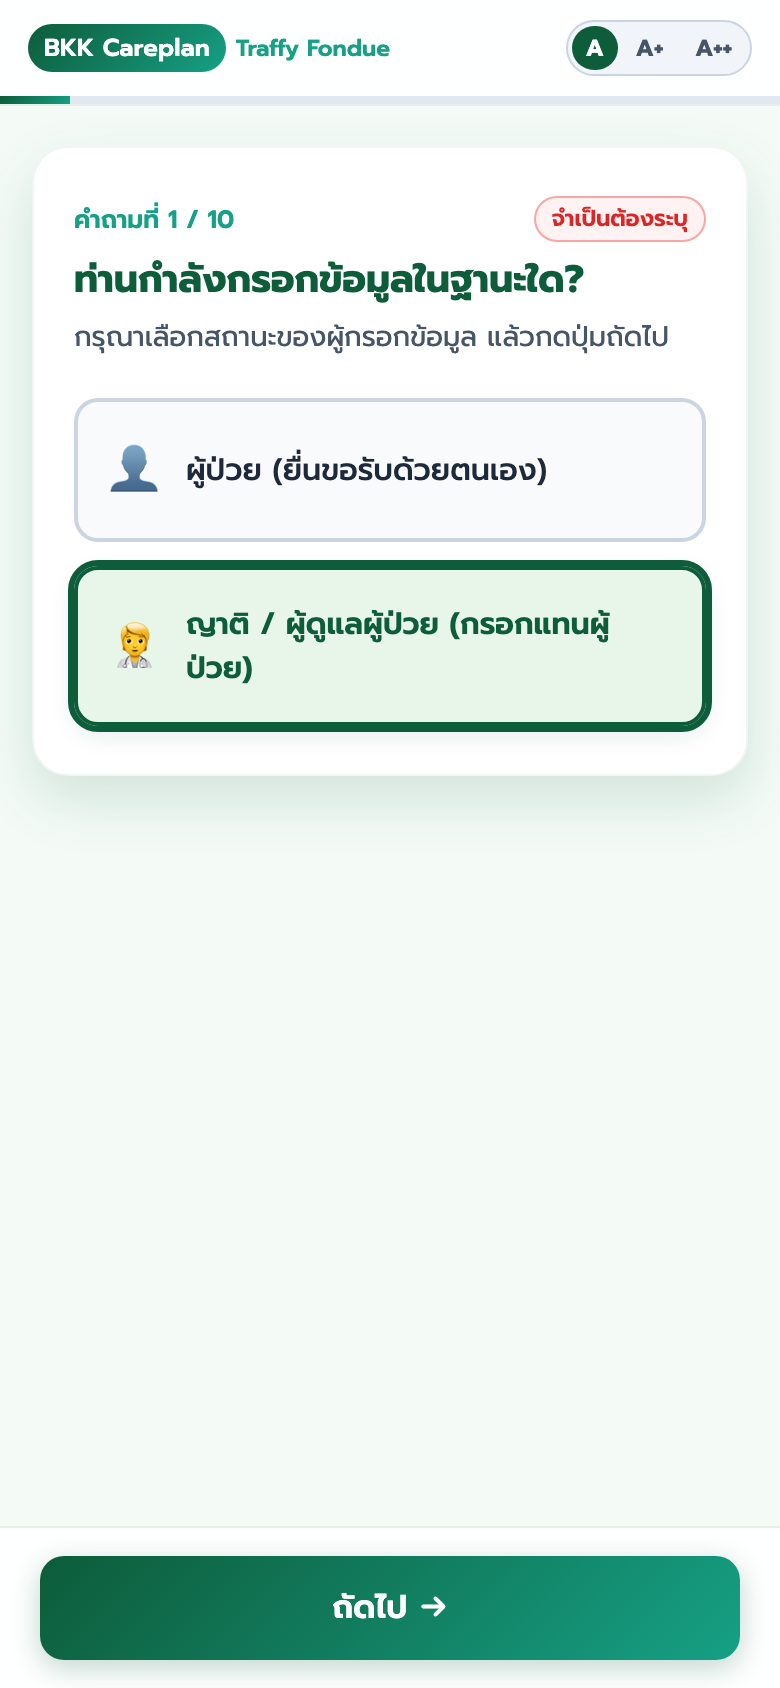
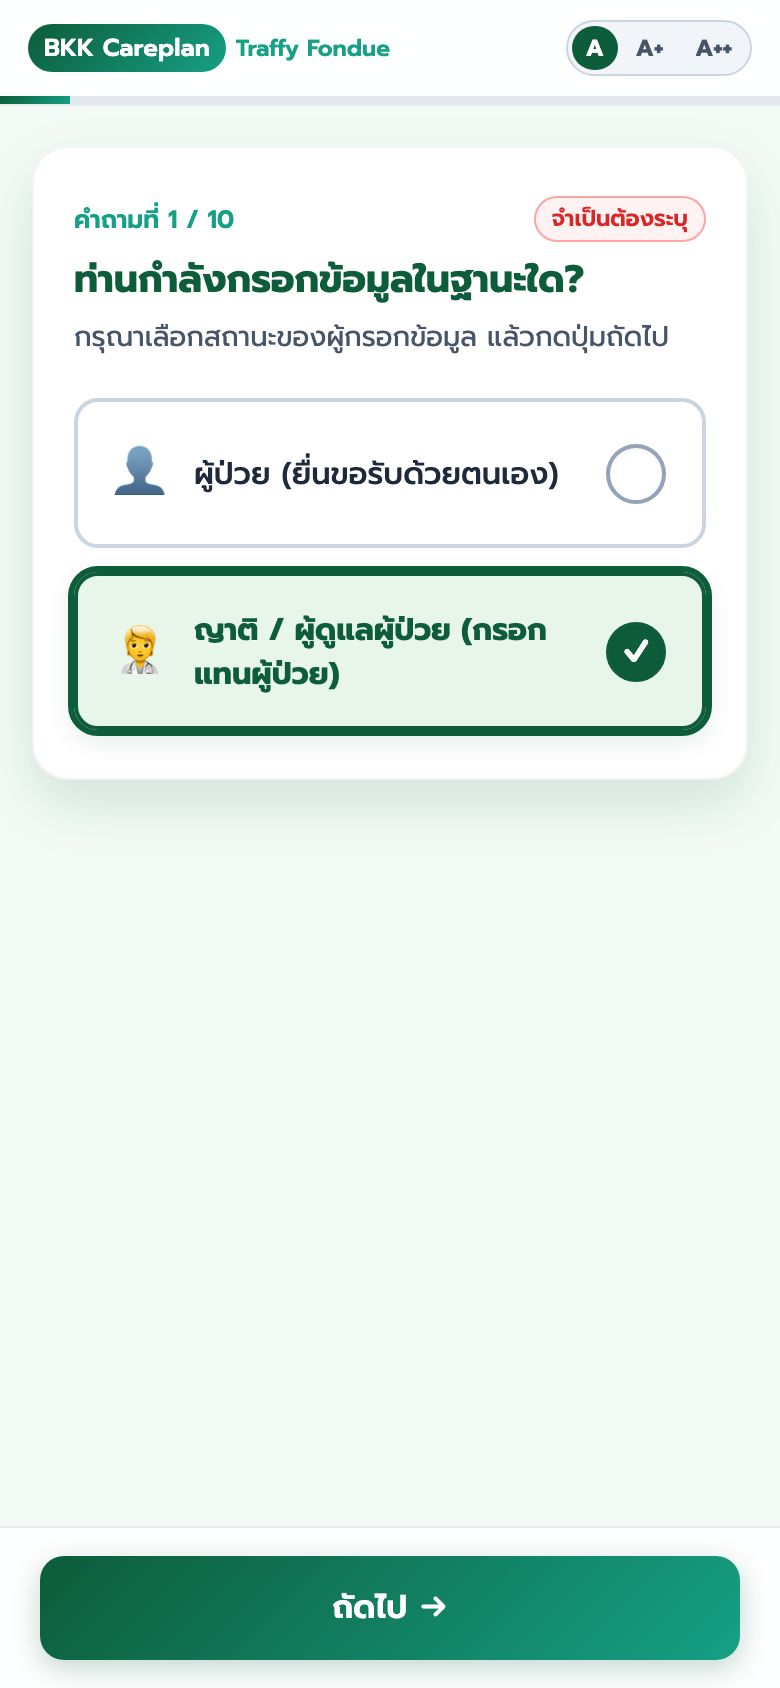
fix(ui): add clear visual checkbox/radio indicator boxes [✓] and dynamic .selected state for question 4 multi-select

Changed region(s): [[0.0923, 0.2464, 0.9231, 0.4621], [0.1538, 0.3697, 0.2154, 0.4005], [0.8923, 0.4005, 0.9231, 0.4313]]

diff --git a/styles.css b/styles.css
@@ -255,37 +255,62 @@ body {
   position: relative;
   display: flex;
   align-items: center;
-  background: #f8fafc;
+  justify-content: space-between;
+  background: #ffffff;
   border: 2px solid #cbd5e1;
   border-radius: var(--radius-md);
-  padding: 16px;
+  padding: 16px 18px;
   cursor: pointer;
   transition: all 0.2s ease;
-  min-height: 48px; /* Touch target minimum size */
+  min-height: 56px; /* Touch target minimum size */
+  user-select: none;
+}
+
+/* Visual Checkbox & Radio Indicators */
+.checkbox-card::after, .option-card::after {
+  content: '';
+  display: flex;
+  align-items: center;
+  justify-content: center;
+  width: 26px;
+  height: 26px;
+  min-width: 26px;
+  margin-left: 12px;
+  border: 2px solid #94a3b8;
+  border-radius: 6px;
+  background: #ffffff;
+  transition: all 0.2s ease;
+  box-shadow: inset 0 1px 2px rgba(0, 0, 0, 0.05);
+}
+
+.option-card::after {
+  border-radius: 50%;
 }
 
 /* Keyboard Focus Outline for Accessibility (WCAG 2.4.7) */
 .option-card:focus-within, .checkbox-card:focus-within {
   outline: 3px solid var(--primary-green);
   border-color: var(--primary-green);
-  background: #e8f5e9;
+  background: #f0fdf4;
 }
 
 .card-content {
   display: flex;
   align-items: center;
   gap: 14px;
-  width: 100%;
+  width: calc(100% - 38px);
 }
 
 .icon {
-  font-size: 1.5rem;
+  font-size: 1.6rem;
+  flex-shrink: 0;
 }
 
 .label-text {
-  font-size: calc(0.94rem * var(--base-font-scale));
+  font-size: calc(0.95rem * var(--base-font-scale));
   font-weight: 500;
   color: var(--text-main);
+  line-height: 1.4;
 }
 
 .size-title {
@@ -304,16 +329,45 @@ body {
   background: #f0fdf4;
 }
 
-.option-card:has(input:checked), .checkbox-card:has(input:checked) {
+/* Selected State Styles */
+.option-card.selected,
+.checkbox-card.selected,
+.option-card:has(input:checked),
+.checkbox-card:has(input:checked) {
   border-color: var(--primary-green);
   background: #e8f5e9;
-  box-shadow: 0 4px 12px rgba(13, 92, 58, 0.12);
+  box-shadow: 0 4px 14px rgba(13, 92, 58, 0.15);
 }
 
+.option-card.selected .label-text,
+.checkbox-card.selected .label-text,
 .option-card:has(input:checked) .label-text, 
 .checkbox-card:has(input:checked) .label-text {
   color: var(--primary-green);
-  font-weight: 600;
+  font-weight: 700;
+}
+
+/* Checked Indicator Symbols */
+.checkbox-card.selected::after,
+.checkbox-card:has(input:checked)::after {
+  content: '✓';
+  color: #ffffff;
+  font-weight: 800;
+  font-size: 16px;
+  line-height: 1;
+  background: var(--primary-green);
+  border-color: var(--primary-green);
+}
+
+.option-card.selected::after,
+.option-card:has(input:checked)::after {
+  content: '✓';
+  color: #ffffff;
+  font-weight: 800;
+  font-size: 16px;
+  line-height: 1;
+  background: var(--primary-green);
+  border-color: var(--primary-green);
 }
 
 /* Custom Text Inputs, Textarea & BKK Autocomplete */

diff --git a/app.js b/app.js
@@ -290,6 +290,7 @@ document.addEventListener('DOMContentLoaded', () => {
 
     renderMedCertPreviews();
     renderFilePreviews();
+    updateCardSelectedStates();
   }
 
   // Thai Citizen ID Mask Formatting
@@ -611,14 +612,27 @@ document.addEventListener('DOMContentLoaded', () => {
     saveDraft();
   }
 
-  // Real-time input listeners to enable/disable Next button
+  function updateCardSelectedStates() {
+    document.querySelectorAll('.checkbox-card, .option-card').forEach(card => {
+      const input = card.querySelector('input');
+      if (input && input.checked) {
+        card.classList.add('selected');
+      } else {
+        card.classList.remove('selected');
+      }
+    });
+  }
+
+  // Real-time input listeners to enable/disable Next button & update selection UI
   document.querySelectorAll('input, textarea').forEach(el => {
     el.addEventListener('input', () => {
       syncCurrentStepData();
+      updateCardSelectedStates();
       checkCurrentStepValidity();
     });
     el.addEventListener('change', () => {
       syncCurrentStepData();
+      updateCardSelectedStates();
       checkCurrentStepValidity();
     });
   });
@@ -876,4 +890,5 @@ document.addEventListener('DOMContentLoaded', () => {
   // Init
   restoreDraft();
   updateStepUI();
+  updateCardSelectedStates();
 });
